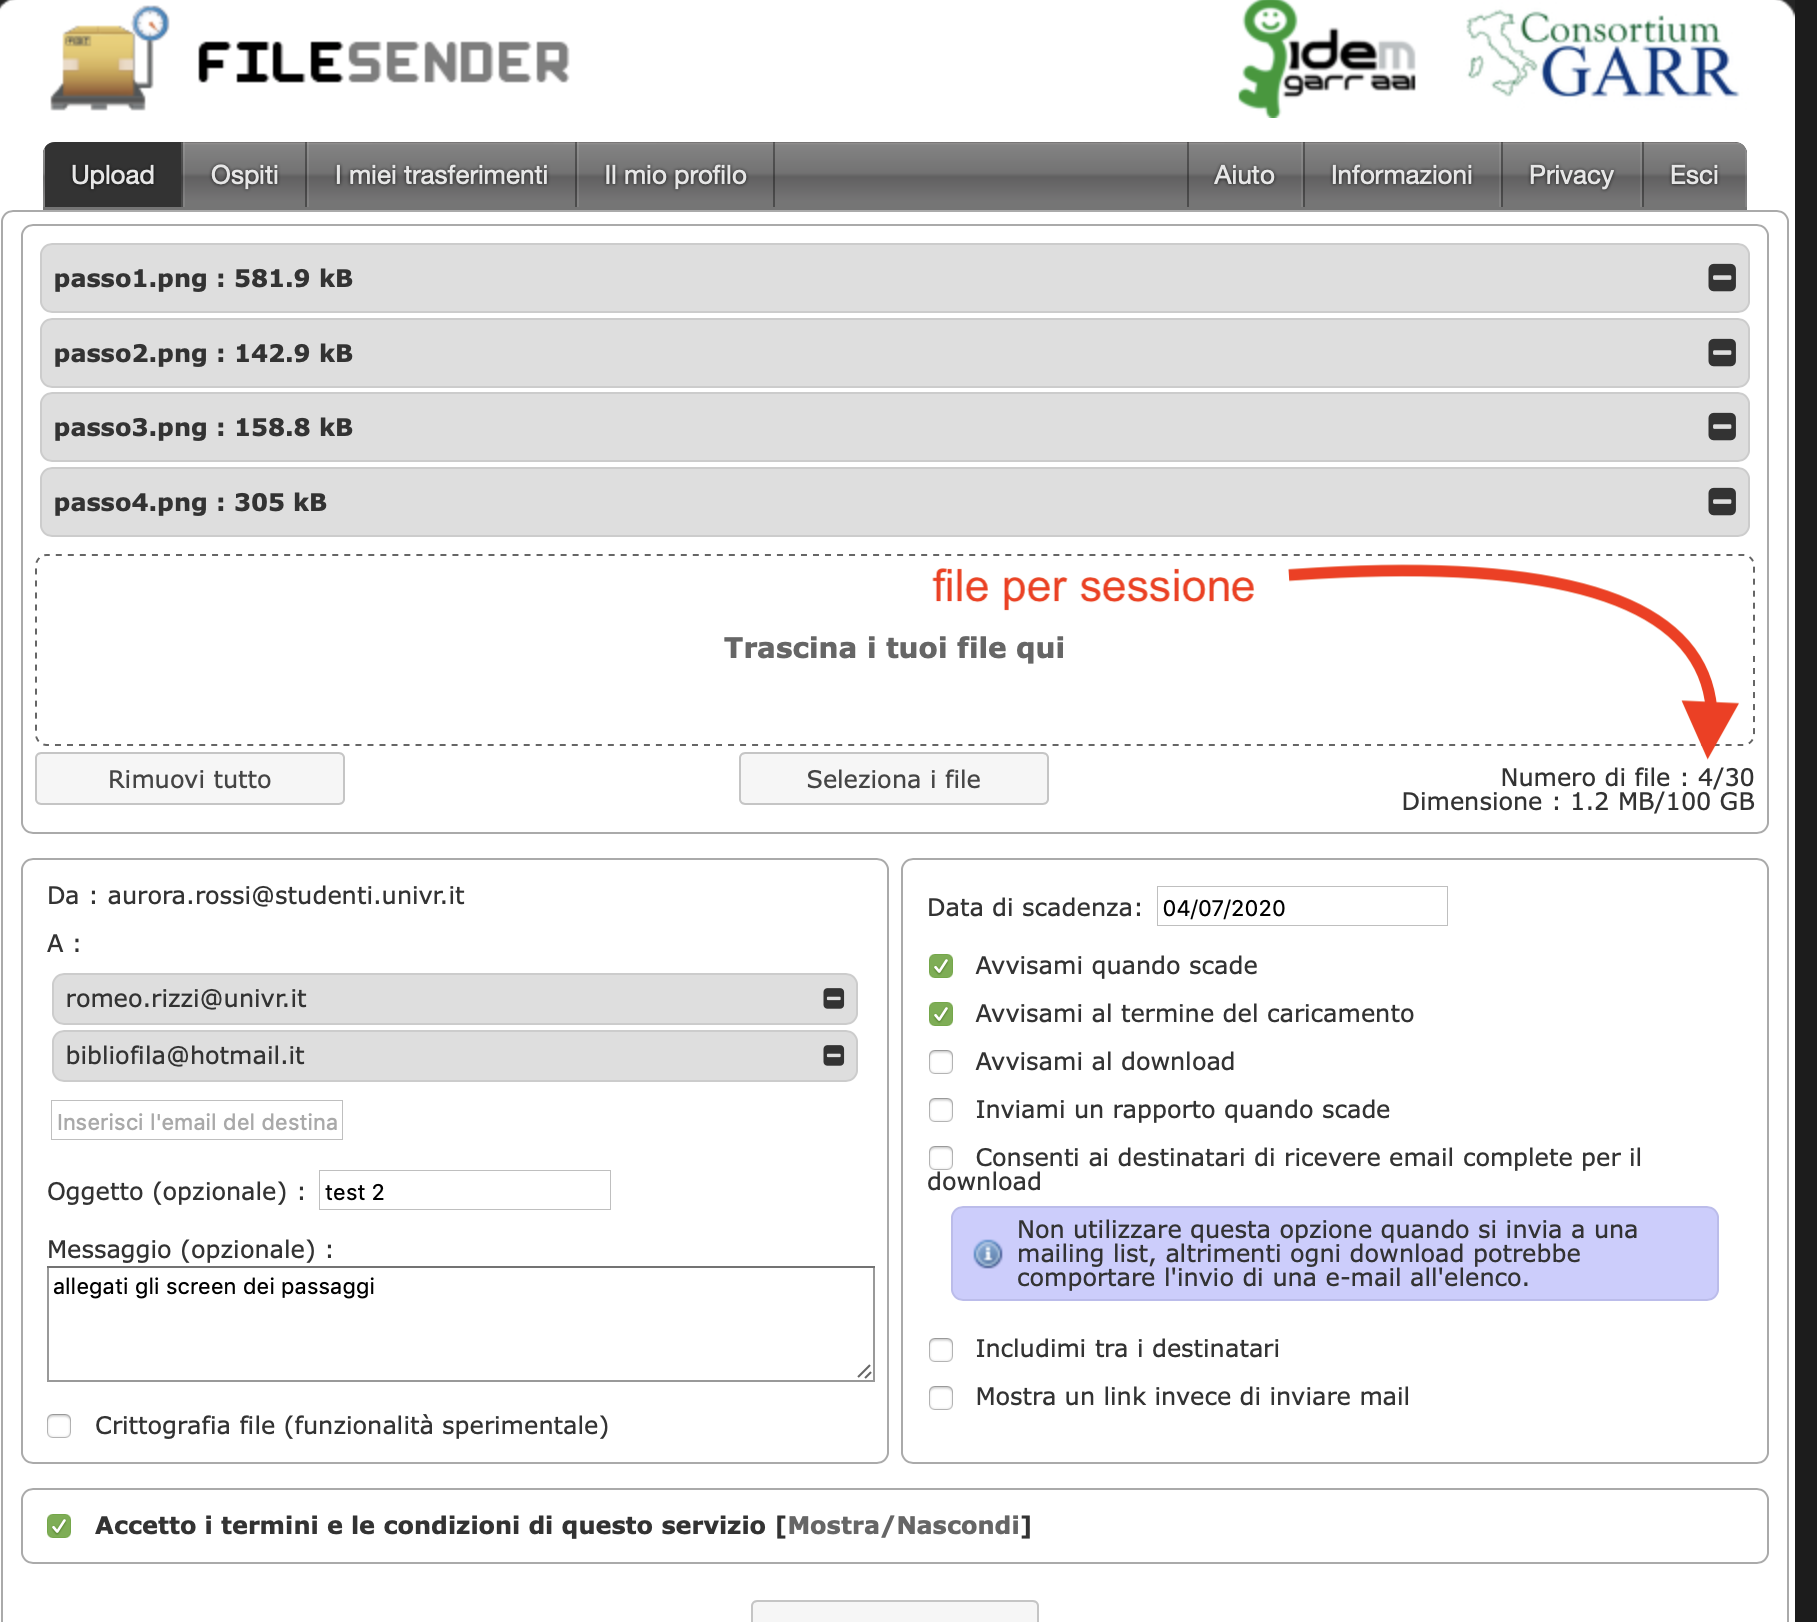
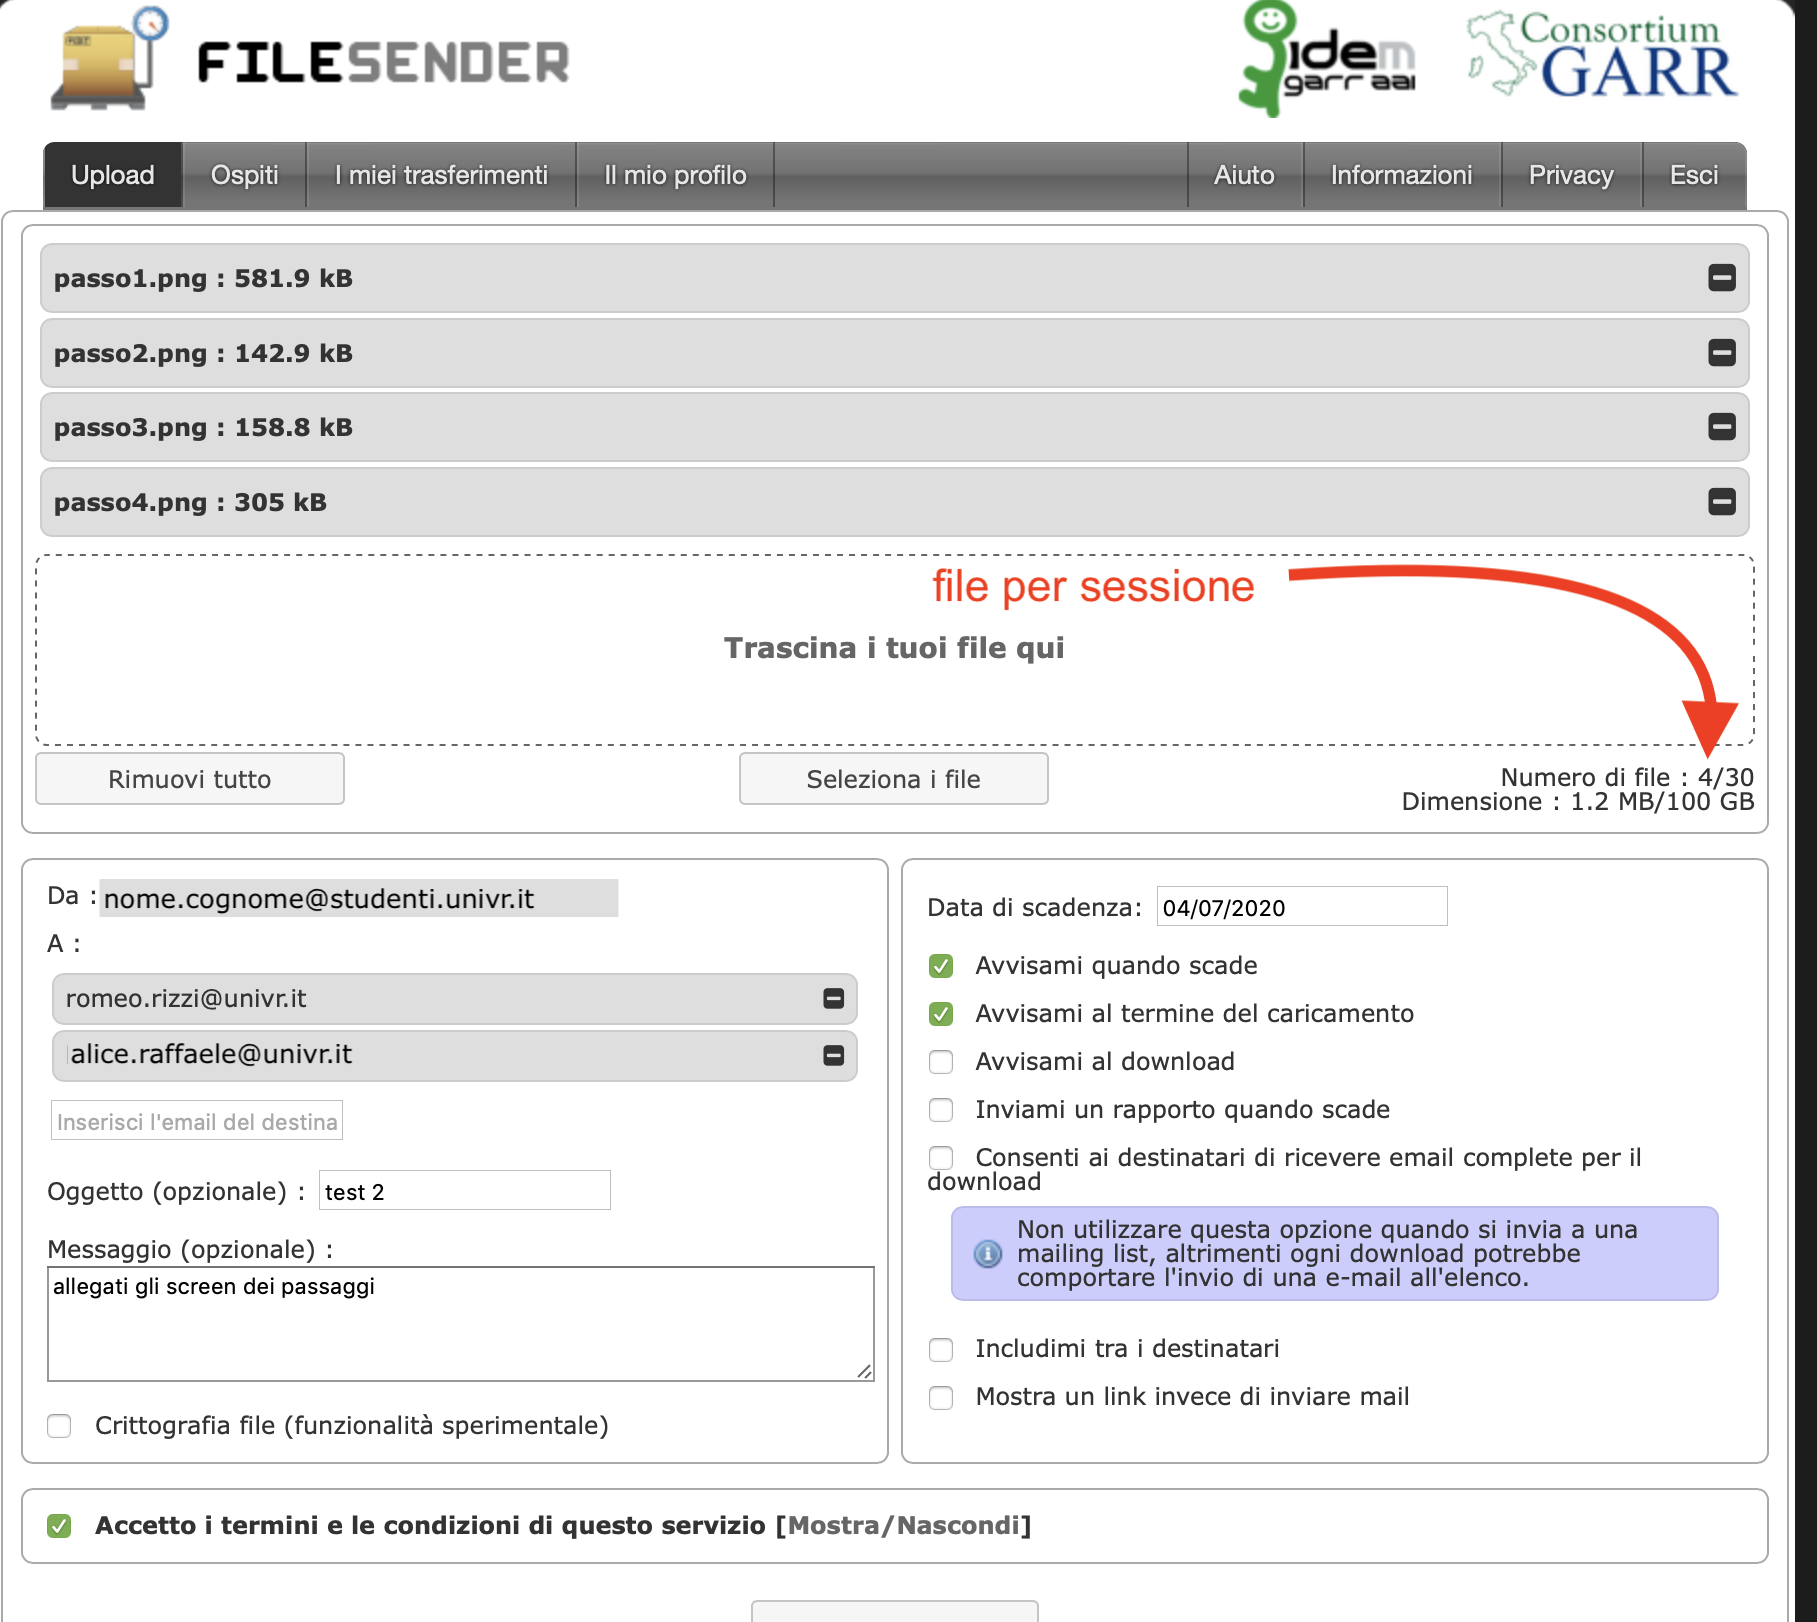
fix typo e immagini (nascosto nome ed email Aurora)

Changed region(s): [[0.0616, 0.524, 0.339, 0.5857], [0.0308, 0.6473, 0.1849, 0.6782]]

diff --git a/student_upload/FilesenderGARR/istruzioni_studente_upload_zip_file.md b/student_upload/FilesenderGARR/istruzioni_studente_upload_zip_file.md
@@ -2,41 +2,41 @@
 
 La mappa ti avrà guidato nel comporre le tue risposte alle varie domande, assicurandosi che ogni materiale prodotto sia stato correttamente collocato entro la cartella del tuo esame in cui hai lavorato e che avevi scaricato ad inizio dell'esame.
 
-Ora vuoi consegnare. Ecco in breve i due passi che devi compiere, entrambi saranno poi espansi meglio in sezioni successive, dovesse servirti:
+Ora vuoi consegnare. Ecco in breve i due passi che devi compiere; entrambi saranno poi espansi meglio in sezioni successive, dovessero servirti:
 
 1. Crea un unico file compresso (formati ed estensioni ammesse: `.7z`, `.zip`, `.tgz`, `.tar.gz`, `.tar`) della cartella esame. Ad esempio:
     ```
     zip -r esameRO-2020.06.30-VR?????
     ```
-    dove `VR?????` è la tua matricola ed abbiamo assunto ti sei collocato nella cartella padre per produrre da terminale lo zip del folder di tuo interesse.
+    dove `VR?????` è la tua matricola, e abbiamo assunto che ti sei collocato nella cartella principale per produrre da terminale lo .zip del folder di tuo interesse.
 
-    Dei formati sopra il `.tar` è quello meno conveniente non offrendo esso compressione alcuna ma limitandosi a raccogliere in un singolo file un intero folder.
+    Dei formati sopra, il `.tar` è quello meno conveniente, non offrendo esso compressione alcuna ma limitandosi a raccogliere in un singolo file un intero folder.
 
 2. Inviaci il file zip `esameRO-2020.06.30-VR?????.zip` così ottenuto tramite il servizio [Filesender GARR](https://wayf.idem.garr.it/WAYF?entityID=https%3A%2F%2Ffilesender.garr.it%2Fshibboleth&return=https%3A%2F%2Ffilesender.garr.it%2FShibboleth.sso%2FLogin%3FSAMLDS%3D1%26return%3Dhttps%253A%252F%252Ffilesender.garr.it%252F%253Fs%253Dupload%26target%3Dss%253Amem%253Aed4a8d42c54374b7e053e6c5b4dfa282c6052c1a622db2729ea7f08592780514) chiedendo di recapitarlo alla sequenza di indirizzi mail:
 ```
    romeo.rizzi@univr.it, alice.raffaele@univr.it
 ```
 
-Le due rimanenti sezioni del presente documento approfondiscono come attrazzarsi per poter portare a termine questi due passi. 
+Le due rimanenti sezioni del presente documento approfondiscono come attrezzarsi per poter portare a termine questi due passi.
 
-## Creazione di file compressi in uno dei formati da noi ammessi
+## 1. Creazione di file compressi in uno dei formati da noi ammessi
 
 Il software gratuito [B1 Free Archiver](https://b1.org/) ti consente di gestire in semplicità, e da qualsiasi piattaforma (Windows, Mac, Linux), tutti i formati compressi ammessi.
 
-Se usi Windows e già hai installato [il software gratuito ed open source <b>7-Zip</b>](https://www.7-zip.org/) puoi continuare ad utilizzare quello, andrà benissimo. 
+Se usi Windows e già hai installato [il software gratuito ed open source <b>7-Zip</b>](https://www.7-zip.org/) puoi continuare ad utilizzare quello, andrà benissimo.
 
-Lo stesso consiglio vale se sei già organizzato a tuo modo su Mac o Linux, dove per altro è presente nativamente il comando `tar` col quale puoi creare dei file `.tgz` o `.tar.gz` (sconsigliamo i semplici `.tar` poichè è sempre meglio inviare file compressi, oltre ai tempi riduce anche i rischi di errore). Da Mac potresti preferire utilizzare semplicemente `Finder` ma assicurati di rimanere entro i formati da noi ammessi.
+Lo stesso consiglio vale se sei già organizzato a tuo modo su Mac o Linux, dove per altro è presente nativamente il comando `tar` col quale puoi creare dei file `.tgz` o `.tar.gz` (sconsigliamo i semplici `.tar` poiché è sempre meglio inviare file compressi: oltre ai tempi, si riducono anche i rischi di errore). Da Mac potresti preferire utilizzare semplicemente `Finder` ma assicurati di rimanere entro i formati da noi ammessi.
 
 Se invece vuoi una compressione di tipo zip (o appunto 7z) e devi decidere cosa installarti, aggiungiamo un'ultima alternativa che merita considerazione:
 se preferisci operare da linea di comando e/o installarti solo quanto utile allo scopo allora visiona da cima a fondo la breve pagina [Open/Extract 7z File with Freeware on Windows/Mac/Linux](http://www.e7z.org/open-7z.htm).
 
-## Invio di grossi file tramite il servizio GARR Filesender
+## 2. Invio di grossi file tramite il servizio GARR Filesender
 
 Accedi a [Filesender GARR](https://wayf.idem.garr.it/WAYF?entityID=https%3A%2F%2Ffilesender.garr.it%2Fshibboleth&return=https%3A%2F%2Ffilesender.garr.it%2FShibboleth.sso%2FLogin%3FSAMLDS%3D1%26return%3Dhttps%253A%252F%252Ffilesender.garr.it%252F%253Fs%253Dupload%26target%3Dss%253Amem%253Aed4a8d42c54374b7e053e6c5b4dfa282c6052c1a622db2729ea7f08592780514) e, selezionata l'Università di Verona come il tuo ente di appartenenza, carica il file compresso `esameRO-2020.06.30-VR?????.7z` (o di altro formato ed estensione) per recapitarlo agli indirizzi mail:
 ```
    romeo.rizzi@univr.it, alice.raffaele@univr.it
 ```
-Questo è quanto. Ma se ti abbiamo perso percorriamo ora insieme i passi necessari accompagnandoti coi nostri Screenshots. 
+Questo è quanto. Ma se ti abbiamo perso percorriamo ora insieme i passi necessari accompagnandoti coi nostri Screenshots.
 
 Parti caricando lo URL [`https://filesender.garr.it/`](https://filesender.garr.it/)  dentro il tuo browswr. Così facendo verrai accolto da una schermata di benvenuto:
 
@@ -64,11 +64,10 @@ Ma la cosa importante a questo punto è che tu abbia cura di inserire nel campo 
 Solo dopo avere aggiunto tale allegato potrai comandare l'invio pigiando nell'area bassa della schermata dove la freccia bianca dentro la nuvola è l'icona che vorrebbe indicare l'upload.
 
 
-Una volta concluso l'invio, cliccando su "i miei trasferimenti" e poi su "vedi i log di trasferimento" ottieni una schermata analoga alla seguente. Essa ti offre conferma dell'avvenuto invio e potrà in qualche modo consentirti di certificarlo qualora qualcosa dovesse andare storto:
+Una volta concluso l'invio, cliccando su "I miei trasferimenti" e poi su "Vedi i log di trasferimento" ottieni una schermata analoga alla seguente. Essa ti offre conferma dell'avvenuto invio e potrà in qualche modo consentirti di certificarlo qualora qualcosa dovesse andare storto:
 
 ![Figura: schermata che certifica il tuo invio del file tramite Filesender GARR](schermate/ricevutaGARR_a_studente.png)
 
-Alternativamente, puoi accedere al servizio GARR Filsesender da MyUniVR oppure da moodle:
+Alternativamente, puoi accedere al servizio GARR Filsesender da MyUniVR oppure da Moodle:
 
 ![Figura: schermata che certifica il tuo invio del file tramite Filesender GARR](schermate/accedere_a_FilsesenderGARR_da_MyUniVR_o_da_moodle.png)
-
